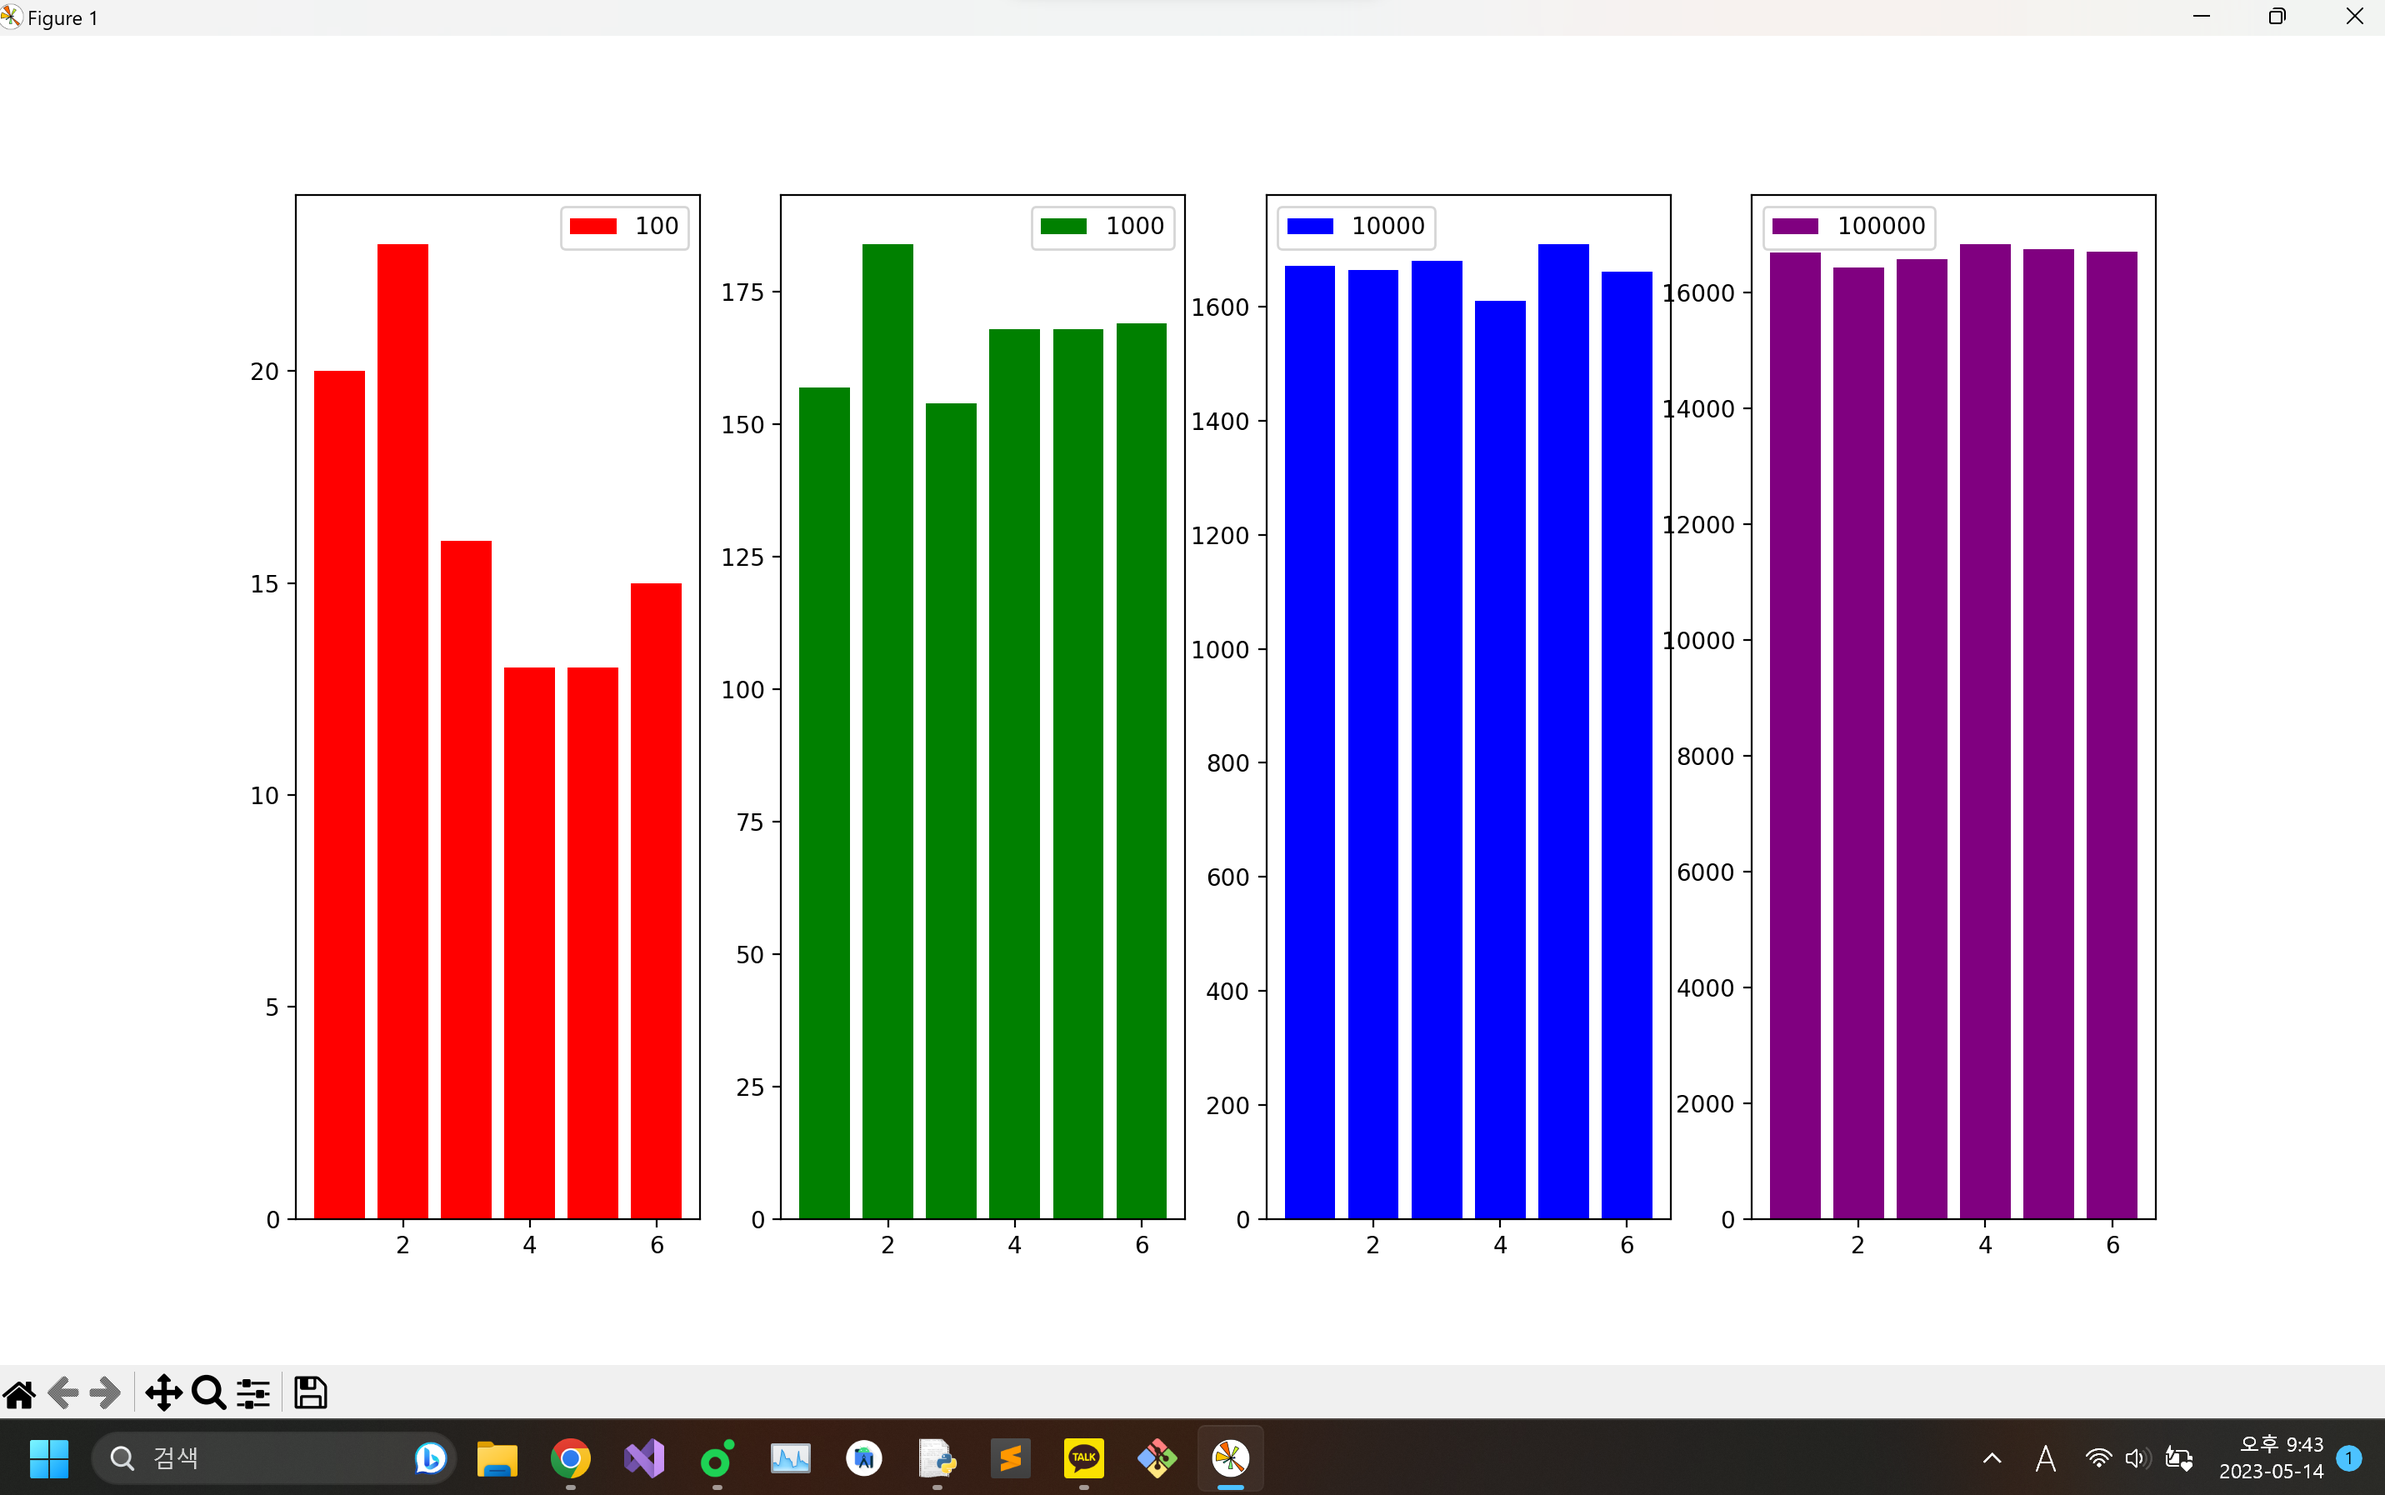
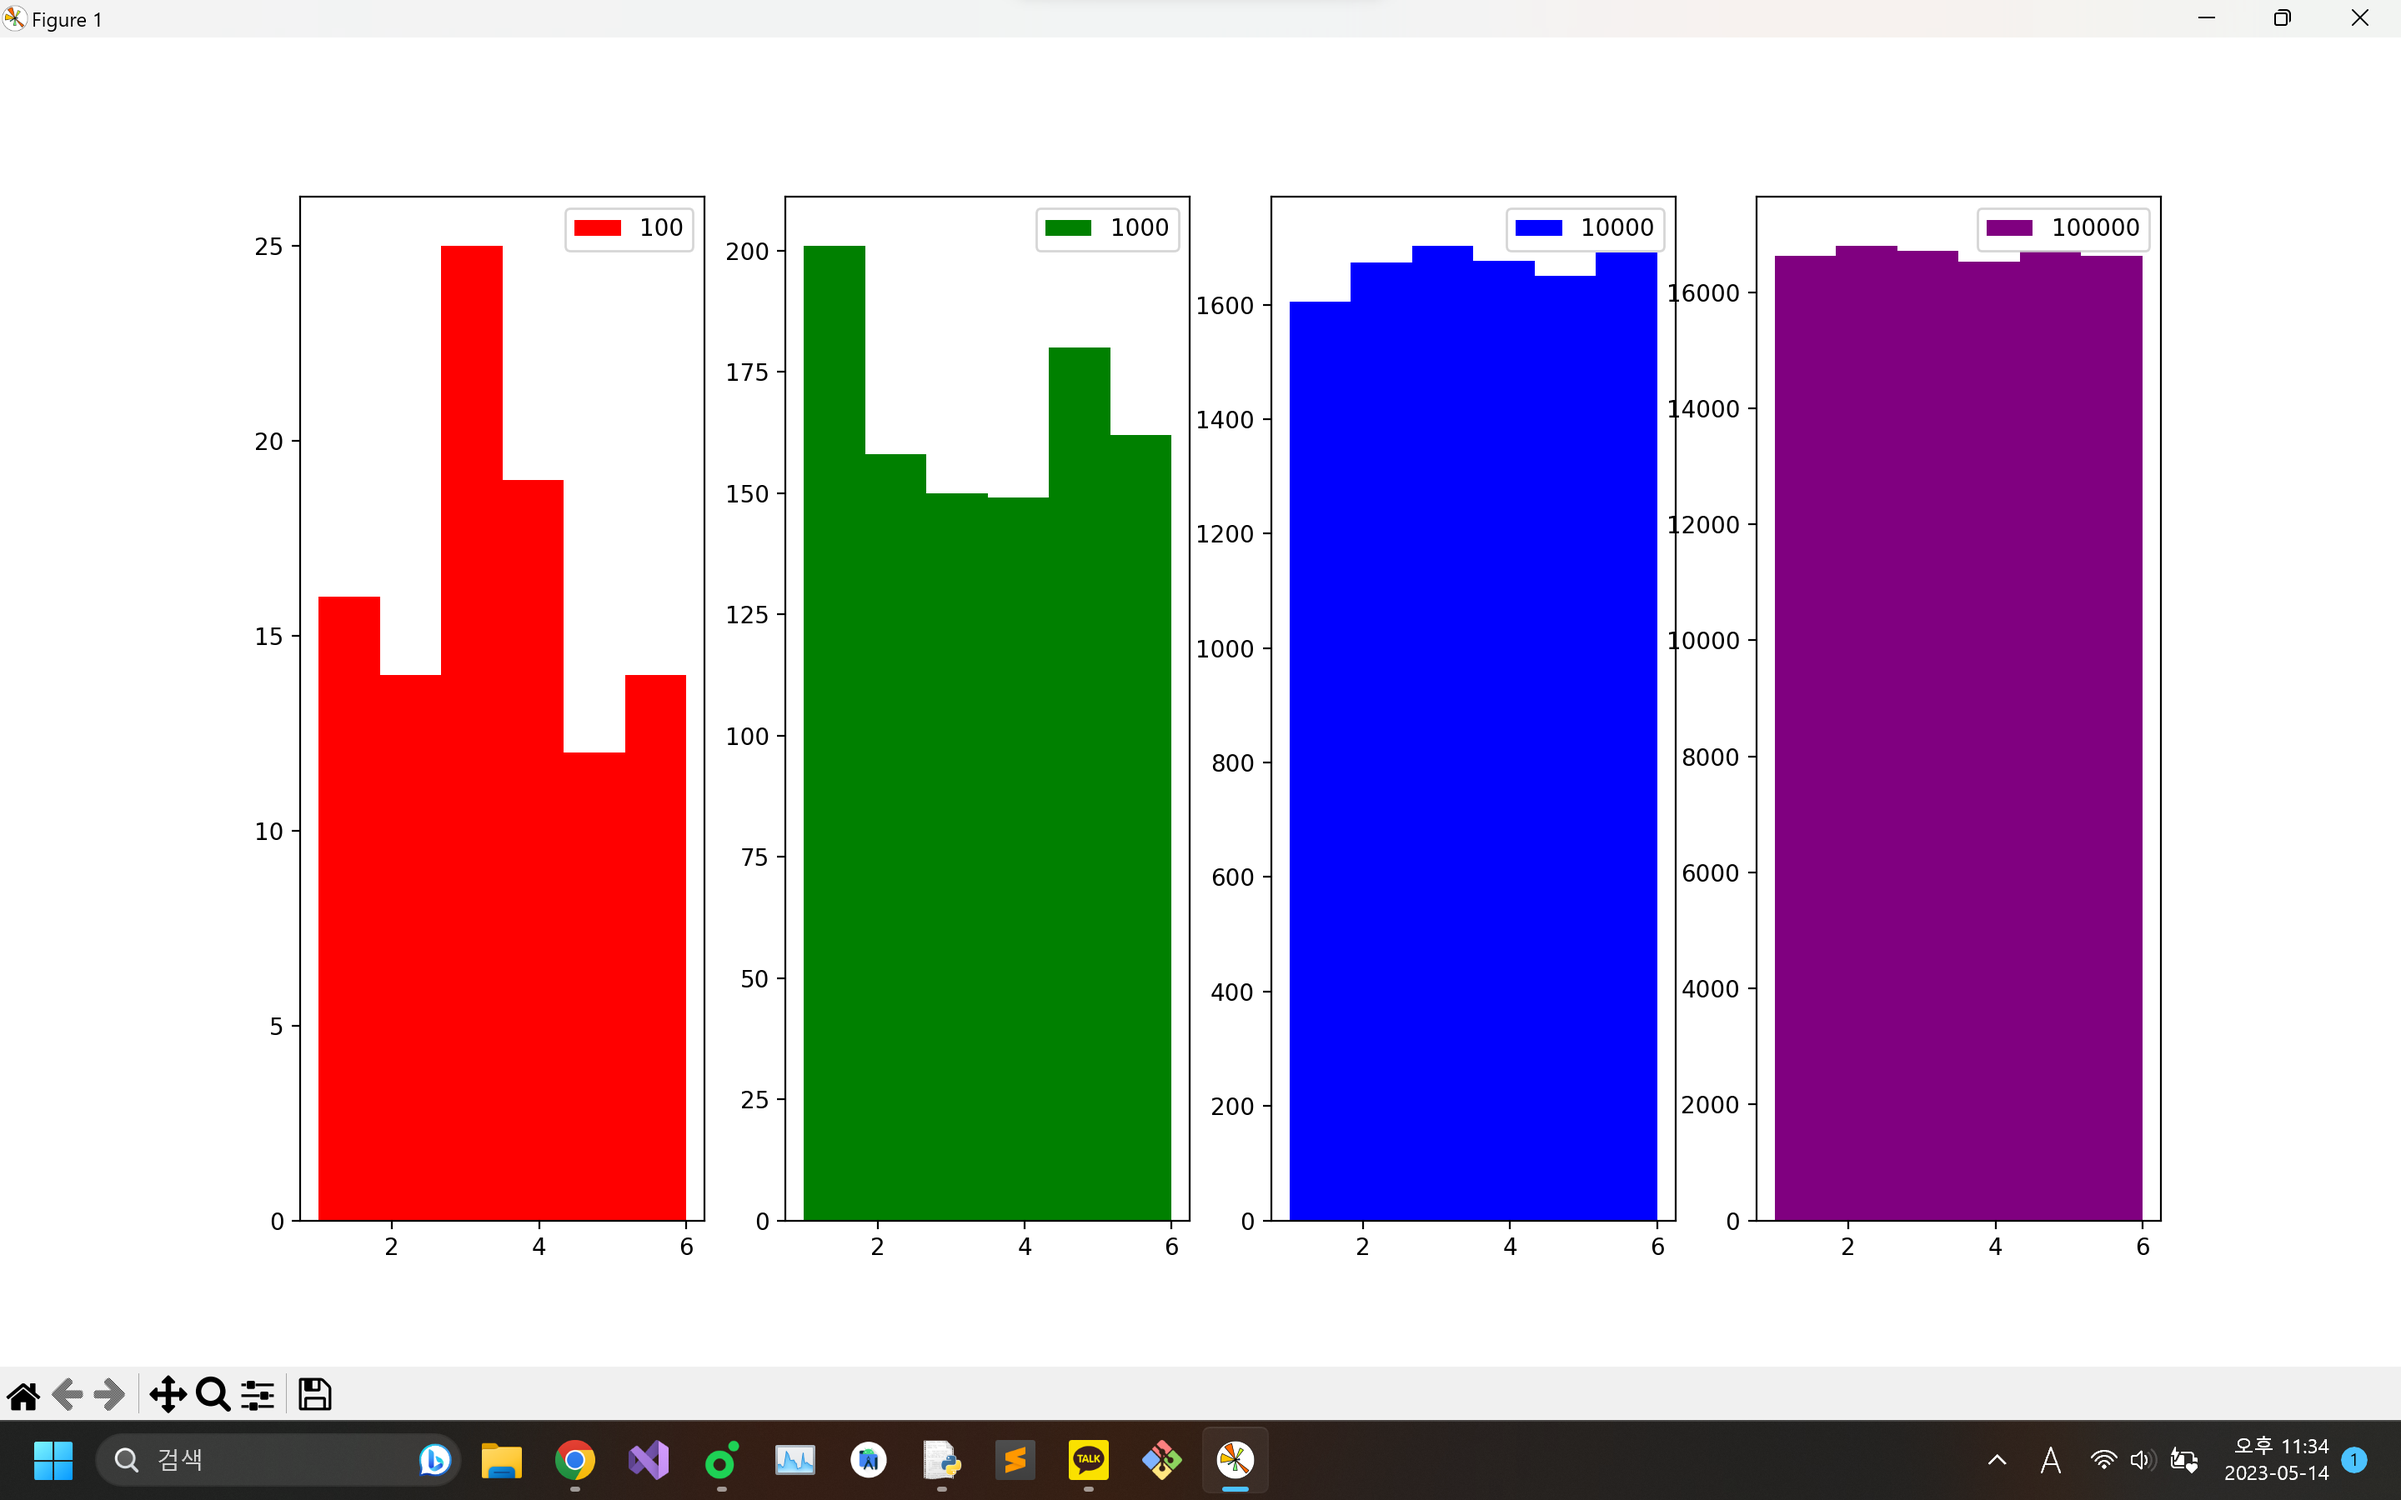
q2 edited

diff --git a/Q2/q2.py b/Q2/q2.py
@@ -48,11 +48,11 @@ def readData():
     rowCount = 1
     
     for row in data:
-        arr = [0]*6
+        arr = []
         for i in range(6):
-            arr[i] = int(row[1+i])
+            arr += [i+1] * int(row[i+1])
         p.subplot(1, 4, rowCount)
-        p.bar(xVal, arr, color=colorType[rowCount-1], label=row[0])
+        p.hist(arr, bins=6, color=colorType[rowCount-1], label=row[0])
         p.legend()
         rowCount += 1
         
